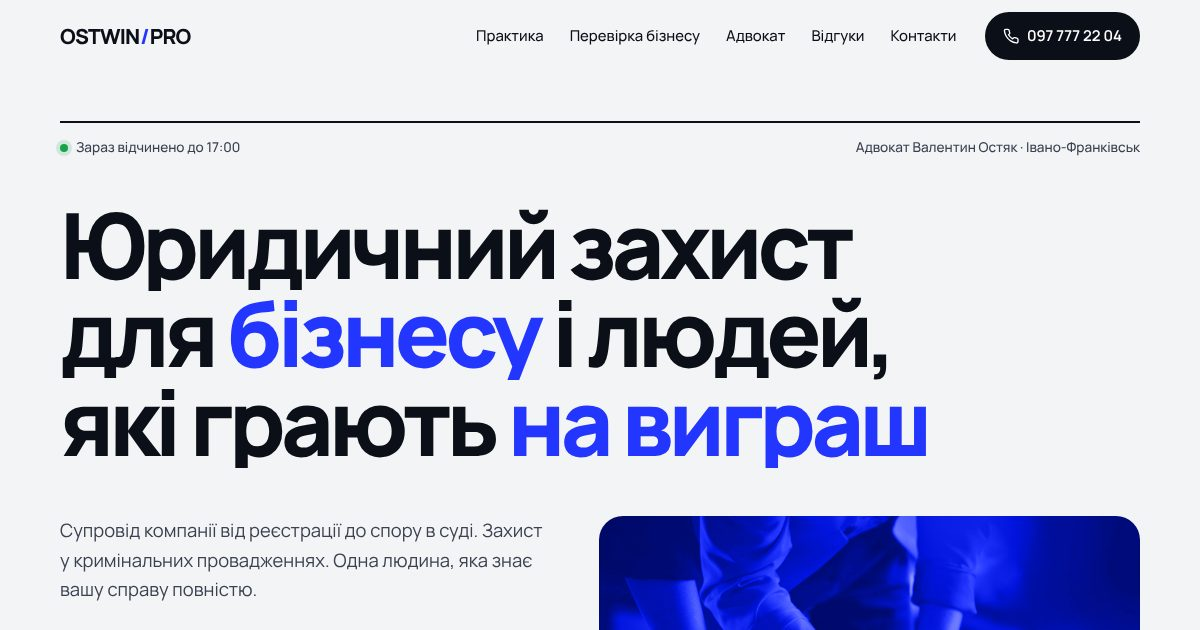
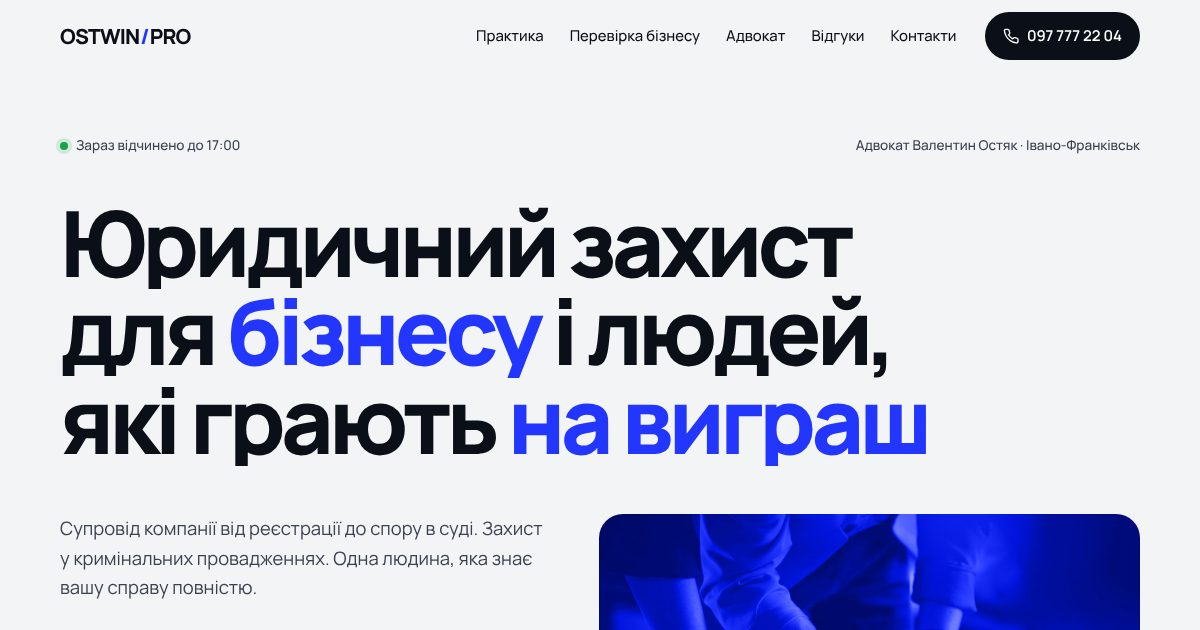
OSTWINPRO beta: richer scroll animations
- Headings reveal word by word, kicker dashes and rules draw in
- Hero: line draws, key words fade to blue, facts count up, photo un-zooms on scroll
- Ticker driven by GSAP, speeds up and reverses with scroll velocity
- Practice cards: numbers and lists slide within the horizontal track (desktop), swipe-in on mobile
- Risk tiles cascade, shield pops, review stars and 5,0 counter, phone underline grows
- Magnetic buttons on desktop with fine pointer; all disabled with prefers-reduced-motion

Claude-Session: https://claude.ai/code/session_01ETwqbS2WLEFhwHm27zZNfS

diff --git a/js/main.js b/js/main.js
@@ -105,7 +105,26 @@
     });
   }
 
-  gsap.from(".hero__title .ln > span", { yPercent: 110, duration: 1, ease: "power4.out", stagger: 0.1 });
+  /* split section headings into words for a staggered reveal */
+  document.querySelectorAll("h2").forEach(function (h) {
+    Array.prototype.slice.call(h.childNodes).forEach(function (n) {
+      if (n.nodeType !== 3) return;
+      var frag = document.createDocumentFragment();
+      n.textContent.split(/(\s+)/).forEach(function (w) {
+        if (!w) return;
+        if (/^\s+$/.test(w)) { frag.appendChild(document.createTextNode(" ")); return; }
+        var o = document.createElement("span"); o.className = "w";
+        var i = document.createElement("span"); i.textContent = w; o.appendChild(i); frag.appendChild(o);
+      });
+      h.replaceChild(frag, n);
+    });
+  });
+
+  var intro = gsap.timeline();
+  intro.from(".hero__top", { opacity: 0, y: -10, duration: 0.6 })
+    .fromTo(".hero__top", { "--line": 0 }, { "--line": 1, duration: 0.9, ease: "power3.out" }, 0)
+    .from(".hero__title .ln > span", { yPercent: 110, duration: 1, ease: "power4.out", stagger: 0.1 }, 0.1)
+    .to(".hero__title b", { color: "#2236ff", duration: 0.8, ease: "power2.inOut", stagger: 0.2 }, 0.9);
   gsap.from(".hero__copy, .hero__facts li", { opacity: 0, y: 20, duration: 0.8, ease: "power2.out", stagger: 0.08, delay: 0.45 });
   gsap.from(".hero__photo", { clipPath: "inset(100% 0 0 0 round 24px)", duration: 1.3, ease: "power3.inOut", delay: 0.2 });
 
@@ -116,14 +135,79 @@
   mm.add("(min-width: 1021px)", function () {
     var track = document.getElementById("track");
     var dist = function () { return Math.max(0, track.scrollWidth - window.innerWidth); };
-    gsap.to(track, {
+    var hs = gsap.to(track, {
       x: function () { return -dist(); }, ease: "none",
       scrollTrigger: { trigger: ".prac__pin", start: "top 64px", end: function () { return "+=" + dist(); }, pin: true, scrub: 0.6, invalidateOnRefresh: true }
     });
+    gsap.utils.toArray(".pc").forEach(function (c) {
+      gsap.from(c.querySelector(".pc__n"), { xPercent: 60, opacity: 0.2, ease: "none", scrollTrigger: { trigger: c, containerAnimation: hs, start: "left 95%", end: "left 45%", scrub: true } });
+      gsap.from(c.querySelectorAll("li"), { opacity: 0, x: 24, stagger: 0.05, ease: "none", scrollTrigger: { trigger: c, containerAnimation: hs, start: "left 90%", end: "left 50%", scrub: true } });
+    });
   });
 
-  gsap.utils.toArray(".check__intro, .qs li, .urgent__in, .about__copy > *, .about__photo, .proc__row li, .rc, .faq details, .contact__info, .form").forEach(function (el) {
+  gsap.utils.toArray(".check__intro > p, .qs li, .urgent__in, .about__copy > p, .about__list li, .about__facts, .about__photo, .proc__row li, .rc, .faq details, .contact__list li, .contact__msg, .form").forEach(function (el) {
     el.classList.add("rv");
     gsap.to(el, { opacity: 1, y: 0, duration: 0.8, ease: "power2.out", scrollTrigger: { trigger: el, start: "top 90%", once: true } });
+  });
+
+  /* headings: words rise in */
+  gsap.utils.toArray("h2").forEach(function (h) {
+    gsap.from(h.querySelectorAll(".w > span"), { yPercent: 105, duration: 0.9, ease: "power4.out", stagger: 0.05, scrollTrigger: { trigger: h, start: "top 88%", once: true } });
+  });
+  /* kicker dash draws */
+  gsap.utils.toArray(".kicker").forEach(function (k) {
+    gsap.fromTo(k, { "--dash": 0, opacity: 0, x: -8 }, { "--dash": 1, opacity: 1, x: 0, duration: 0.7, ease: "power2.out", scrollTrigger: { trigger: k, start: "top 92%", once: true } });
+  });
+
+  /* hero numbers count up */
+  document.querySelectorAll(".hero__facts b, .rev h2 .w:first-child > span").forEach(function (b) {
+    var txt = b.textContent.trim(), num = parseFloat(txt.replace(",", "."));
+    if (isNaN(num)) return;
+    var dec = txt.indexOf(",") > -1 ? 1 : 0, o = { v: 0 };
+    gsap.to(o, { v: num, duration: 1.4, ease: "power2.out", delay: b.closest(".hero") ? 0.8 : 0,
+      scrollTrigger: b.closest(".hero") ? null : { trigger: b, start: "top 85%", once: true },
+      onUpdate: function () { b.textContent = o.v.toFixed(dec).replace(".", ","); } });
+  });
+  gsap.from(".rev .rating__stars svg", { scale: 0, rotate: -40, duration: 0.5, ease: "back.out(3)", stagger: 0.08, scrollTrigger: { trigger: ".rev", start: "top 70%", once: true } });
+
+  /* hero photo drifts and un-zooms on scroll */
+  gsap.fromTo(".hero__photo .duo", { scale: 1.15 }, { scale: 1, ease: "none", scrollTrigger: { trigger: ".hero", start: "top top", end: "bottom top", scrub: true } });
+  gsap.fromTo(".about__photo .duo", { backgroundPosition: "50% 0%" }, { backgroundPosition: "50% 100%", ease: "none", scrollTrigger: { trigger: ".about", start: "top bottom", end: "bottom top", scrub: true } });
+
+  /* ticker: speeds up and reverses with scroll direction */
+  var row = document.querySelector(".ticker__row");
+  if (row) {
+    document.documentElement.classList.add("gs-ticker");
+    var tick = gsap.to(row, { xPercent: -50, duration: 32, ease: "none", repeat: -1 });
+    var dir = 1;
+    ScrollTrigger.create({ onUpdate: function (self) {
+      var v = self.getVelocity(); if (Math.abs(v) < 5) return;
+      dir = v > 0 ? 1 : -1;
+      gsap.to(tick, { timeScale: dir * Math.min(5, 1 + Math.abs(v) / 400), duration: 0.2, overwrite: true });
+      gsap.to(tick, { timeScale: dir, duration: 1, delay: 0.25 });
+    } });
+  }
+
+  /* risk check: tiles cascade in */
+  gsap.from("#riskGrid li", { opacity: 0, y: 16, scale: 0.92, duration: 0.5, ease: "back.out(2)", stagger: 0.06, scrollTrigger: { trigger: ".risk", start: "top 88%", once: true } });
+  /* urgent strip: shield pulses once in view */
+  gsap.fromTo(".urgent__ic", { scale: 0.6, rotate: -15 }, { scale: 1, rotate: 0, duration: 0.8, ease: "elastic.out(1, .5)", scrollTrigger: { trigger: ".urgent", start: "top 85%", once: true } });
+  /* process: top rules draw one after another */
+  gsap.fromTo(".proc__row li", { "--rule": 0 }, { "--rule": 1, duration: 0.7, ease: "power2.inOut", stagger: 0.18, scrollTrigger: { trigger: ".proc__row", start: "top 85%", once: true } });
+  /* contact phone underline grows */
+  gsap.fromTo(".contact__tel", { "--u": 0 }, { "--u": 1, duration: 1, ease: "power3.inOut", scrollTrigger: { trigger: ".contact__tel", start: "top 90%", once: true } });
+
+  /* desktop: practice card numbers slide inside the moving track, magnetic buttons */
+  mm.add("(min-width: 1021px) and (pointer: fine)", function () {
+    document.querySelectorAll(".btn, .hdr__call").forEach(function (btn) {
+      var xTo = gsap.quickTo(btn, "x", { duration: 0.4, ease: "power3" }), yTo = gsap.quickTo(btn, "y", { duration: 0.4, ease: "power3" });
+      var move = function (e) { var r = btn.getBoundingClientRect(); xTo((e.clientX - r.left - r.width / 2) * 0.25); yTo((e.clientY - r.top - r.height / 2) * 0.35); };
+      var leave = function () { xTo(0); yTo(0); };
+      btn.addEventListener("mousemove", move); btn.addEventListener("mouseleave", leave);
+      return function () { btn.removeEventListener("mousemove", move); btn.removeEventListener("mouseleave", leave); };
+    });
+  });
+  mm.add("(max-width: 1020px)", function () {
+    gsap.from(".pc", { opacity: 0, x: 60, duration: 0.8, ease: "power3.out", stagger: 0.1, scrollTrigger: { trigger: ".prac__track", start: "top 85%", once: true } });
   });
 })();

diff --git a/css/style.css b/css/style.css
@@ -22,7 +22,7 @@ p{margin:0 0 1em}
 .skip:focus{left:8px}
 :focus-visible{outline:2px solid var(--blue);outline-offset:3px}
 .kicker{display:inline-flex;align-items:center;gap:10px;font:600 .8rem/1 var(--f);letter-spacing:.08em;text-transform:uppercase;color:var(--blue);margin:0 0 20px}
-.kicker::before{content:"";width:18px;height:2px;background:currentColor}
+.kicker::before{content:"";width:calc(18px * var(--dash,1));height:2px;background:currentColor}
 
 .btn{display:inline-flex;align-items:center;gap:10px;min-height:54px;padding:0 26px;border-radius:999px;font:600 .98rem/1 var(--f);text-decoration:none;border:1.5px solid transparent;cursor:pointer;transition:background .25s,color .25s,border-color .25s,transform .25s}
 .btn svg{transition:transform .25s}
@@ -59,7 +59,8 @@ p{margin:0 0 1em}
 
 /* hero */
 .hero{padding:clamp(28px,4vw,56px) 0 0;overflow:hidden}
-.hero__top{display:flex;justify-content:space-between;flex-wrap:wrap;gap:8px 24px;border-top:2px solid var(--ink);padding-top:14px;margin-bottom:clamp(24px,4vw,44px)}
+.hero__top{position:relative;display:flex;justify-content:space-between;flex-wrap:wrap;gap:8px 24px;padding-top:14px;margin-bottom:clamp(24px,4vw,44px)}
+.hero__top::before{content:"";position:absolute;left:0;top:0;height:2px;width:calc(100% * var(--line,1));background:var(--ink)}
 .tag{margin:0;font-size:.85rem;font-weight:500;color:var(--ink-2)}
 .live{display:inline-flex;align-items:center;gap:8px}
 .live::before{content:"";width:8px;height:8px;border-radius:50%;background:var(--mute)}
@@ -68,11 +69,12 @@ p{margin:0 0 1em}
 .hero__title .ln{display:block;overflow:hidden;padding-bottom:.05em}
 .hero__title .ln>span{display:block}
 .hero__title b{font-weight:800;color:var(--blue)}
+.js .hero__title b{color:var(--ink)}
 .hero__grid{display:grid;grid-template-columns:1fr 1.1fr;grid-template-areas:"copy photo" "facts photo";gap:28px clamp(28px,4vw,64px);align-items:start}
 .hero__copy{grid-area:copy}
 .hero__lead{font-size:1.15rem;max-width:44ch;color:var(--ink-2);margin-bottom:28px}
 .hero__cta{display:flex;flex-wrap:wrap;gap:12px}
-.hero__photo{grid-area:photo;margin:0;border-radius:24px;overflow:hidden}
+.hero__photo{grid-area:photo;margin:0;border-radius:24px;overflow:hidden;isolation:isolate}
 .duo{width:100%;height:100%;min-height:340px;aspect-ratio:16/11;background:var(--blue) center/cover no-repeat;background-blend-mode:luminosity}
 .hero__facts{grid-area:facts;list-style:none;margin:0;padding:0;display:grid;grid-template-columns:repeat(3,1fr);border-top:1px solid var(--line);align-self:end}
 .hero__facts li{padding:18px 12px 0 0}
@@ -84,6 +86,9 @@ p{margin:0 0 1em}
 .ticker__row span{font:700 1.15rem/1 var(--f);letter-spacing:-.01em;padding:0 28px;white-space:nowrap;display:flex;align-items:center;gap:56px}
 .ticker__row span::after{content:"";width:8px;height:8px;background:var(--blue);border-radius:50%;margin-left:28px}
 @keyframes tick{to{transform:translateX(-50%)}}
+.gs-ticker .ticker__row{animation:none}
+h2 .w{display:inline-block;overflow:hidden;vertical-align:top;padding-bottom:.08em;margin-bottom:-.08em}
+h2 .w>span{display:inline-block}
 
 /* practice */
 .prac{padding:clamp(80px,10vw,130px) 0}
@@ -154,12 +159,14 @@ p{margin:0 0 1em}
 .about__facts dt{font-size:.75rem;text-transform:uppercase;letter-spacing:.08em;color:var(--mute)}
 .about__facts dd{margin:4px 0 0;font-weight:600}
 .about__photo{margin:0}
+.about__photo .duo{will-change:background-position}
 .about__photo .duo{aspect-ratio:4/5;border-radius:24px}
 
 /* process */
 .proc{padding:0 0 clamp(80px,10vw,130px)}
 .proc__row{list-style:none;margin:0;padding:0;display:grid;grid-template-columns:repeat(4,1fr);counter-reset:p}
-.proc__row li{counter-increment:p;padding:22px 20px 0 0;border-top:2px solid var(--ink);position:relative}
+.proc__row li{counter-increment:p;padding:22px 20px 0 0;position:relative}
+.proc__row li::after{content:"";position:absolute;left:0;top:0;height:2px;width:calc(100% * var(--rule,1));background:var(--ink)}
 .proc__row li::before{content:counter(p,decimal-leading-zero);position:absolute;top:-13px;left:0;background:var(--bg);padding-right:10px;font-weight:700;font-size:.85rem;color:var(--blue)}
 .proc__row b{display:block;font-size:1.25rem;letter-spacing:-.02em;margin-bottom:4px}
 .proc__row span{color:var(--mute);font-size:.92rem}
@@ -195,7 +202,7 @@ p{margin:0 0 1em}
 .contact .kicker{color:#8f9bff}
 .contact__grid{display:grid;grid-template-columns:1fr 1fr;gap:clamp(32px,6vw,90px);padding-bottom:clamp(56px,8vw,96px)}
 .contact h2{margin-bottom:24px}
-.contact__tel{display:inline-block;font:800 clamp(1.8rem,4vw,3rem)/1 var(--f);letter-spacing:-.04em;text-decoration:none;color:#fff;margin-bottom:24px;border-bottom:3px solid var(--blue);padding-bottom:6px}
+.contact__tel{display:inline-block;font:800 clamp(1.8rem,4vw,3rem)/1 var(--f);letter-spacing:-.04em;text-decoration:none;color:#fff;margin-bottom:24px;padding-bottom:9px;background:linear-gradient(var(--blue),var(--blue)) 0 100%/calc(100% * var(--u,1)) 3px no-repeat}
 .contact__tel:hover{color:#8f9bff}
 .contact__list{list-style:none;margin:0 0 24px;padding:0}
 .contact__list li{display:flex;gap:12px;align-items:flex-start;padding:12px 0;border-bottom:1px solid #222a38}

diff --git a/README.md b/README.md
@@ -10,6 +10,6 @@
 
 Стиль: «швейцарський» корпоративний — графіт, білий, ультрамарин, жирний гротеск Manrope, дуотон-фото. Навмисно інший, ніж у демо адвоката Дороніна (папір/антиква/печатка).
 
-Фішки: експрес-перевірка «Наскільки ваш бізнес захищений юридично?» (6 питань так/ні, матриця з 6 плиток «захищено/ризик» і рівень ризику, результат іде у заявку); напрями практики гортаються горизонтально під час скролу (на ПК закріплений блок, на телефоні свайп); біжучий рядок послуг; живий статус «зараз відчинено/зачинено». Анімації лише transform/opacity, вимикаються при `prefers-reduced-motion`.
+Фішки: експрес-перевірка «Наскільки ваш бізнес захищений юридично?» (6 питань так/ні, матриця з 6 плиток «захищено/ризик» і рівень ризику, результат іде у заявку); напрями практики гортаються горизонтально під час скролу (на ПК закріплений блок, на телефоні свайп); біжучий рядок послуг; живий статус «зараз відчинено/зачинено». Анімації: заголовки з’являються по словах, лічильники цифр, біжучий рядок реагує на швидкість і напрям скролу, плитки ризику каскадом, лінії малюються, магнітні кнопки на ПК, паралакс фото. Анімації лише transform/opacity, вимикаються при `prefers-reduced-motion`.
 
 Заглушки (позначені жовтим): тексти відгуків з Google, номер свідоцтва адвоката, стаж, WhatsApp/Viber на номері, ціна консультації, усі фото (замінити на портрет адвоката).
